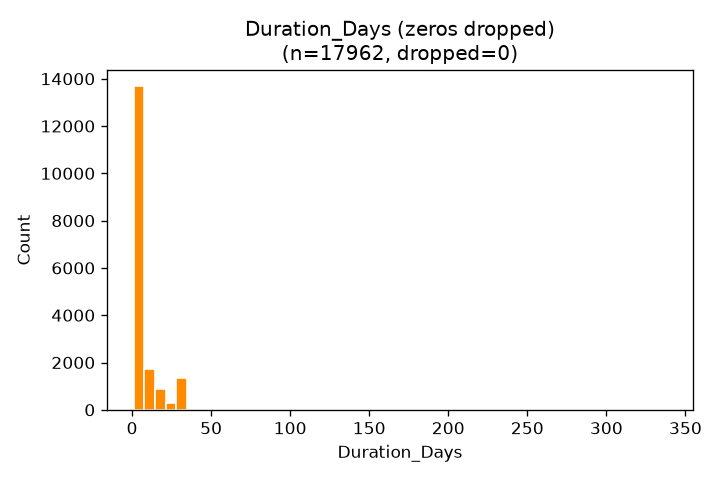
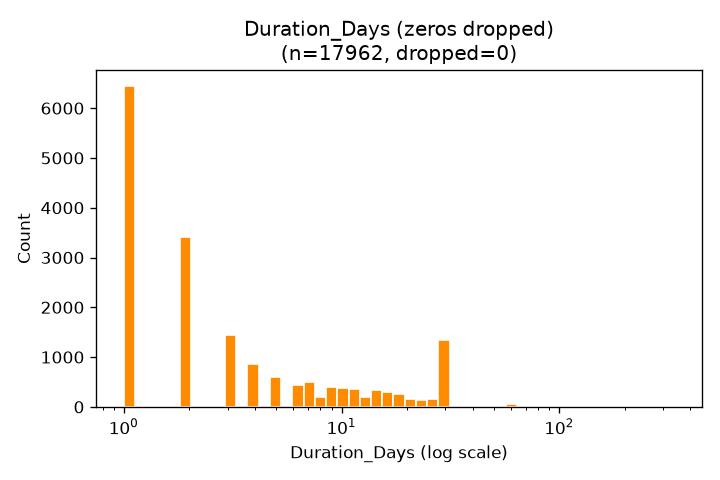
rough linear distribution

Changed region(s): [[0.0306, 0.125, 0.9778, 0.9688], [0.3361, 0.0312, 0.7639, 0.125]]

diff --git a/property_dmg_regression.py b/property_dmg_regression.py
@@ -1,0 +1,83 @@
+import os
+import numpy as np
+import pandas as pd
+import matplotlib.pyplot as plt
+
+
+
+# linear regression of log10 property damage (inflation adjusted) on event characteristics
+# only county-years with nonzero property damage are used (376 of 17962 rows are zero)
+# state/county are left out for now
+
+data = pd.read_csv('loss_output_year_county.csv')
+
+target = 'PropertyDmg(ADJ 2024)'
+data = data[data[target] > 0]
+
+# damage and counts are right-skewed, so model them on a log scale
+X = pd.DataFrame({
+    'log10(Records)': np.log10(data['Records']),
+    'log10(Duration_Days)': np.log10(data['Duration_Days']),
+    'Year': data['Year'],
+})
+y = np.log10(data[target]).to_numpy()
+
+# 80/20 train/test split
+rng = np.random.default_rng(42)
+idx = rng.permutation(len(X))
+n_train = int(0.8 * len(X))
+train, test = idx[:n_train], idx[n_train:]
+
+# ordinary least squares with an intercept column
+A = np.column_stack([np.ones(len(X)), X.to_numpy()])
+coef, *_ = np.linalg.lstsq(A[train], y[train], rcond=None)
+
+# standard errors from the residual variance on the training set
+resid = y[train] - A[train] @ coef
+dof = len(train) - A.shape[1]
+sigma2 = resid @ resid / dof
+se = np.sqrt(np.diag(sigma2 * np.linalg.inv(A[train].T @ A[train])))
+
+names = ['Intercept'] + list(X.columns)
+summary = pd.DataFrame({'coef': coef, 'std_err': se, 't': coef / se}, index=names)
+
+
+def r2(y_true, y_pred):
+    return 1 - ((y_true - y_pred) ** 2).sum() / ((y_true - y_true.mean()) ** 2).sum()
+
+
+def rmse(y_true, y_pred):
+    return np.sqrt(((y_true - y_pred) ** 2).mean())
+
+
+pred = A @ coef
+print(f'Target: log10({target}), n={len(X)} (train={len(train)}, test={len(test)})\n')
+print(summary.round(4))
+print(f'\nTrain R^2 = {r2(y[train], pred[train]):.4f}   RMSE = {rmse(y[train], pred[train]):.4f}')
+print(f'Test  R^2 = {r2(y[test], pred[test]):.4f}   RMSE = {rmse(y[test], pred[test]):.4f}')
+
+# predicted vs actual and residuals on the test set
+out_dir = os.path.join('regression', 'property_dmg')
+os.makedirs(out_dir, exist_ok=True)
+
+fig, axes = plt.subplots(1, 2, figsize=(12, 5))
+ax = axes[0]
+ax.scatter(y[test], pred[test], s=5, alpha=0.2, color='steelblue')
+lims = [y.min(), y.max()]
+ax.plot(lims, lims, color='black', linestyle='--', linewidth=1)
+ax.set_xlabel(f'Actual log10({target})')
+ax.set_ylabel(f'Predicted log10({target})')
+ax.set_title(f'Property damage: predicted vs actual (test, R^2={r2(y[test], pred[test]):.3f})')
+
+ax = axes[1]
+ax.scatter(pred[test], y[test] - pred[test], s=5, alpha=0.2, color='steelblue')
+ax.axhline(0, color='black', linestyle='--', linewidth=1)
+ax.set_xlabel('Predicted')
+ax.set_ylabel('Residual')
+ax.set_title('Residuals vs predicted (test)')
+
+fig.tight_layout()
+fig.savefig(os.path.join(out_dir, 'fit.png'), dpi=120)
+plt.close(fig)
+
+summary.to_csv(os.path.join(out_dir, 'coefficients.csv'))

diff --git a/crop_dmg_regression.py b/crop_dmg_regression.py
@@ -1,0 +1,83 @@
+import os
+import numpy as np
+import pandas as pd
+import matplotlib.pyplot as plt
+
+
+
+# linear regression of log10 crop damage (inflation adjusted) on event characteristics
+# only county-years with nonzero crop damage are used (10473 of 17962 rows are zero)
+# state/county are left out for now
+
+data = pd.read_csv('loss_output_year_county.csv')
+
+target = 'CropDmg(ADJ 2024)'
+data = data[data[target] > 0]
+
+# damage and counts are right-skewed, so model them on a log scale
+X = pd.DataFrame({
+    'log10(Records)': np.log10(data['Records']),
+    'log10(Duration_Days)': np.log10(data['Duration_Days']),
+    'Year': data['Year'],
+})
+y = np.log10(data[target]).to_numpy()
+
+# 80/20 train/test split
+rng = np.random.default_rng(42)
+idx = rng.permutation(len(X))
+n_train = int(0.8 * len(X))
+train, test = idx[:n_train], idx[n_train:]
+
+# ordinary least squares with an intercept column
+A = np.column_stack([np.ones(len(X)), X.to_numpy()])
+coef, *_ = np.linalg.lstsq(A[train], y[train], rcond=None)
+
+# standard errors from the residual variance on the training set
+resid = y[train] - A[train] @ coef
+dof = len(train) - A.shape[1]
+sigma2 = resid @ resid / dof
+se = np.sqrt(np.diag(sigma2 * np.linalg.inv(A[train].T @ A[train])))
+
+names = ['Intercept'] + list(X.columns)
+summary = pd.DataFrame({'coef': coef, 'std_err': se, 't': coef / se}, index=names)
+
+
+def r2(y_true, y_pred):
+    return 1 - ((y_true - y_pred) ** 2).sum() / ((y_true - y_true.mean()) ** 2).sum()
+
+
+def rmse(y_true, y_pred):
+    return np.sqrt(((y_true - y_pred) ** 2).mean())
+
+
+pred = A @ coef
+print(f'Target: log10({target}), n={len(X)} (train={len(train)}, test={len(test)})\n')
+print(summary.round(4))
+print(f'\nTrain R^2 = {r2(y[train], pred[train]):.4f}   RMSE = {rmse(y[train], pred[train]):.4f}')
+print(f'Test  R^2 = {r2(y[test], pred[test]):.4f}   RMSE = {rmse(y[test], pred[test]):.4f}')
+
+# predicted vs actual and residuals on the test set
+out_dir = os.path.join('regression', 'crop_dmg')
+os.makedirs(out_dir, exist_ok=True)
+
+fig, axes = plt.subplots(1, 2, figsize=(12, 5))
+ax = axes[0]
+ax.scatter(y[test], pred[test], s=5, alpha=0.2, color='seagreen')
+lims = [y.min(), y.max()]
+ax.plot(lims, lims, color='black', linestyle='--', linewidth=1)
+ax.set_xlabel(f'Actual log10({target})')
+ax.set_ylabel(f'Predicted log10({target})')
+ax.set_title(f'Crop damage: predicted vs actual (test, R^2={r2(y[test], pred[test]):.3f})')
+
+ax = axes[1]
+ax.scatter(pred[test], y[test] - pred[test], s=5, alpha=0.2, color='seagreen')
+ax.axhline(0, color='black', linestyle='--', linewidth=1)
+ax.set_xlabel('Predicted')
+ax.set_ylabel('Residual')
+ax.set_title('Residuals vs predicted (test)')
+
+fig.tight_layout()
+fig.savefig(os.path.join(out_dir, 'fit.png'), dpi=120)
+plt.close(fig)
+
+summary.to_csv(os.path.join(out_dir, 'coefficients.csv'))

diff --git a/data_preprocess.py b/data_preprocess.py
@@ -61,10 +61,14 @@ for col in columns:
     values = data[col]
     nonzero = values[values != 0]
 
+    # log-spaced bins so the long right tail doesn't squash everything into the first bin
+    bins = np.logspace(np.log10(nonzero.min()), np.log10(nonzero.max()), 50)
+
     fig, ax = plt.subplots(figsize=(6, 4))
-    ax.hist(nonzero, bins=50, color='darkorange', edgecolor='white')
+    ax.hist(nonzero, bins=bins, color='darkorange', edgecolor='white')
+    ax.set_xscale('log')
     ax.set_title(f'{col} (zeros dropped)\n(n={len(nonzero)}, dropped={len(values) - len(nonzero)})')
-    ax.set_xlabel(col)
+    ax.set_xlabel(f'{col} (log scale)')
     ax.set_ylabel('Count')
     fig.tight_layout()
 
